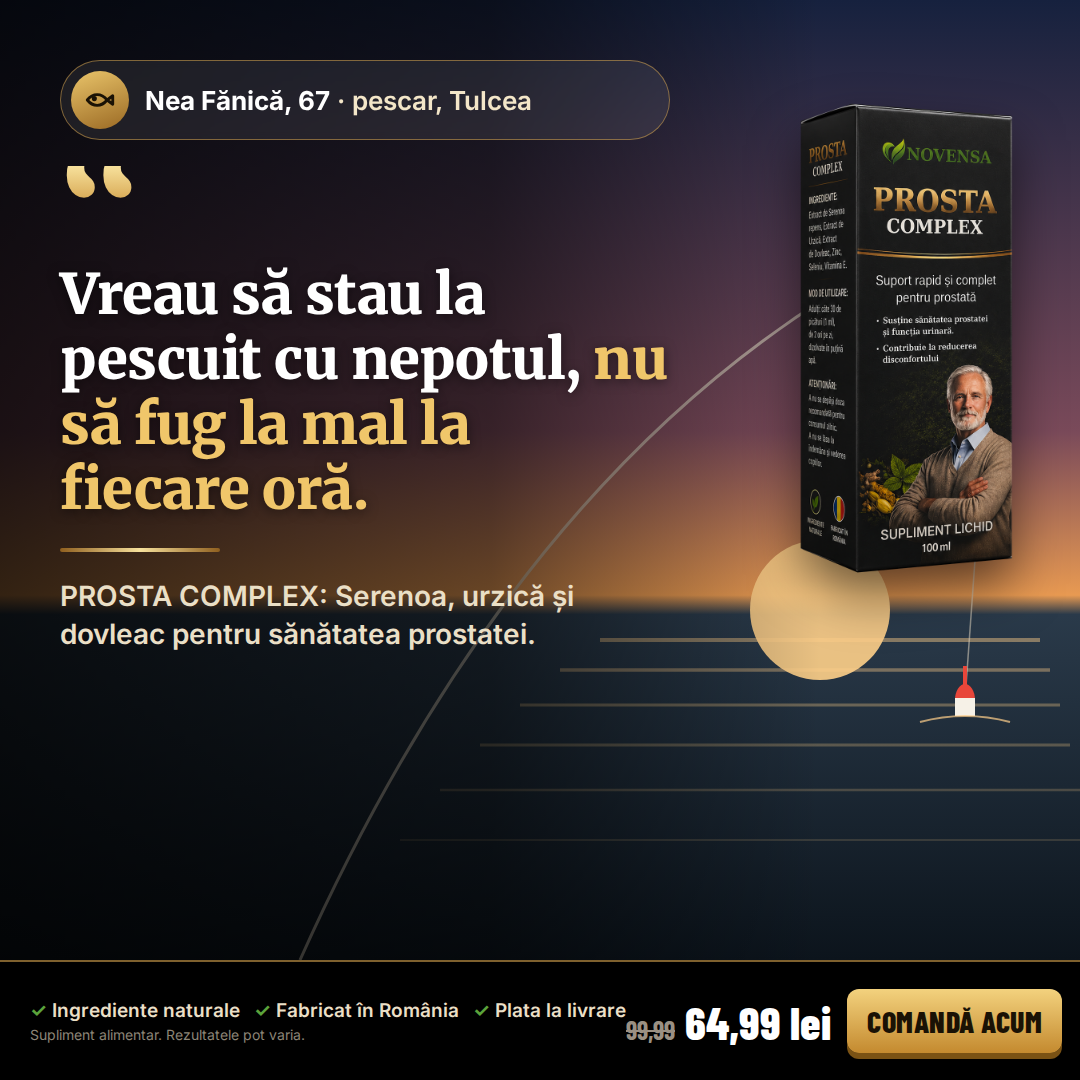
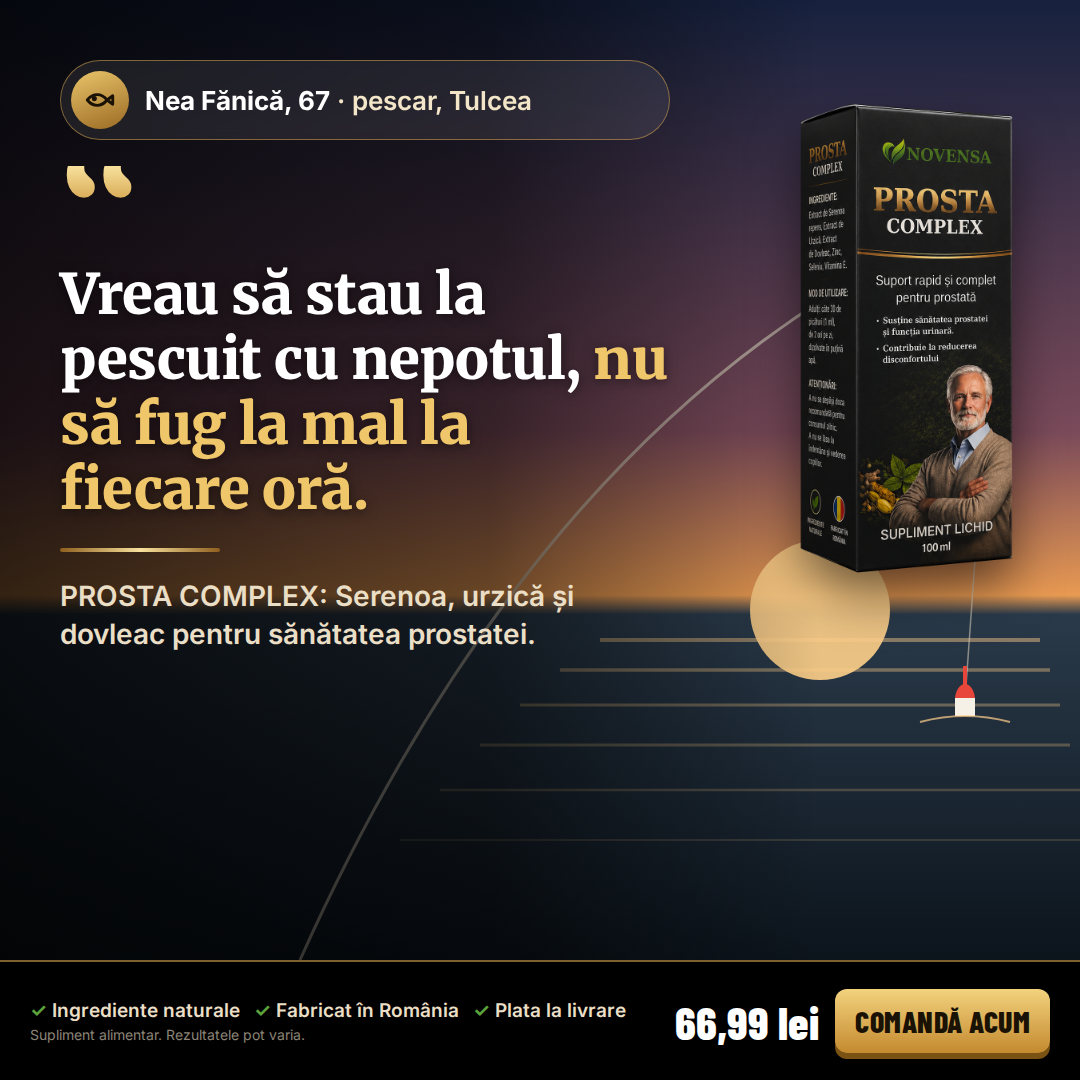
Add 10 aggressive offer ads (66,99 lei / 3 boxes 190 lei free shipping); update prices
Claude-Session: https://claude.ai/code/session_01L9cV6zALUeAnbbGBkdurjz

Changed region(s): [[0.5806, 0.9167, 1.0, 0.9778]]

diff --git a/brand/premium/ads.js b/brand/premium/ads.js
@@ -186,18 +186,139 @@ ads.push({ id: 'P11-0317-0730', html: page(`body{background:linear-gradient(90de
   <div class="abs" style="left:600px;top:940px;font:400 16px Inter;color:${C.forest};width:420px">*Experiențe raportate de clienți. Rezultatele pot varia.</div>
   ${foot(C.forest, '#fff')}`) });
 
-// 12. Offer
-ads.push({ id: 'P12-oferta', html: page(`body{background:${C.forest};color:#fff}
-  .price{position:absolute;left:56px;top:470px}
-  .old{font:800 54px Archivo;color:rgba(255,255,255,.55);text-decoration:line-through}
-  .now{font:900 170px Archivo;letter-spacing:-6px;line-height:1;color:#fff}
-  .now small{font-size:60px;letter-spacing:0}
-  .cta{position:absolute;left:56px;top:790px;background:${C.saffron};color:${C.forest};font:900 38px Archivo;padding:24px 44px;border-radius:999px;text-transform:uppercase}`,
-  `${logo(56, 56, 46, 'filter:brightness(0) invert(1)')}
-  <div class="abs h" style="left:56px;top:150px;width:620px;font-size:88px">Doar azi: <span class="it" style="color:${C.saffron}">-35%</span> la PROSTA COMPLEX</div>
-  <div class="price"><div class="old">99,99 lei</div><div class="now">64,99<small> lei</small></div></div>
-  <div class="cta">Comandă acum →</div>
-  <div class="burst" style="width:230px;height:230px;left:810px;top:60px;background:${C.saffron};font:900 64px/0.9 Archivo;color:${C.forest}">-35%</div>
-  ${prod(720, 640, 230, 4)}${disc('Supliment alimentar.', '#fff')}${foot(C.saffron, C.forest)}`) });
+
+// ================================================================ AGGRESSIVE / OFFER SET
+// 1 cutie = 66,99 lei · Cura completă = 3 cutii = 190 lei cu transport GRATUIT (3 x 66,99 = 200,97 lei)
+const RED = '#D7262E', YEL = '#FFD23F', BLK = '#0E0E0E';
+const stack3 = (h, x, y) => `<img class="prod" src="${PROD}" style="height:${h * .9}px;left:${x}px;top:${y + h * .1}px;transform:rotate(-9deg)">
+  <img class="prod" src="${PROD}" style="height:${h * .9}px;left:${x + h * .42}px;top:${y + h * .1}px;transform:rotate(9deg)">
+  <img class="prod" src="${PROD}" style="height:${h}px;left:${x + h * .2}px;top:${y}px">`;
+const AGG = `
+  .tape{position:absolute;left:-40px;right:-40px;height:64px;display:flex;align-items:center;gap:40px;white-space:nowrap;font:900 30px Archivo;letter-spacing:2px;text-transform:uppercase;overflow:hidden}
+  .big{font-family:Archivo;font-weight:900;letter-spacing:-3px;line-height:.92;text-transform:uppercase}
+  .btn{position:absolute;padding:24px 44px;border-radius:999px;font:900 36px Archivo;text-transform:uppercase;letter-spacing:.5px;box-shadow:0 8px 0 rgba(0,0,0,.35)}
+  .strike{position:relative;display:inline-block}.strike:after{content:"";position:absolute;left:-4px;right:-4px;top:52%;height:6px;background:${RED};transform:rotate(-8deg)}
+`;
+const tape = (top, bg, fg, txt) => `<div class="tape" style="top:${top}px;background:${bg};color:${fg}">${Array(6).fill(`<span>${txt}</span><span>★</span>`).join('')}</div>`;
+
+// A01 – bundle hero (red)
+ads.push({ id: 'A01-cura-completa-190', html: page(`body{background:${RED};color:#fff}${AGG}`,
+  `${tape(0, YEL, BLK, 'Transport gratuit la cura completă')}
+  ${logo(56, 100, 44, 'filter:brightness(0) invert(1)')}
+  <div class="abs big" style="left:56px;top:180px;font-size:88px">Cura<br>completă</div>
+  <div class="abs" style="left:60px;top:400px;font:800 34px Archivo">3 cutii PROSTA COMPLEX</div>
+  <div class="abs" style="left:56px;top:470px;font:900 200px/1 Archivo;letter-spacing:-8px">190<span style="font-size:70px;letter-spacing:0"> lei</span></div>
+  <div class="abs" style="left:60px;top:690px;font:700 34px Inter">în loc de <span class="strike">200,97 lei</span></div>
+  <div class="btn" style="left:56px;top:790px;background:${YEL};color:${BLK}">Comandă acum →</div>
+  ${stack3(540, 590, 330)}
+  <div class="burst" style="width:260px;height:260px;left:790px;top:90px;background:${YEL};color:${BLK};font:900 30px/0.95 Archivo">TRANSPORT<br>GRATUIT</div>
+  ${foot(BLK, '#fff')}`) });
+
+// A02 – 1 box vs 3 boxes
+ads.push({ id: 'A02-1-vs-3-cutii', html: page(`body{background:${C.cream}}${AGG}
+  .card{position:absolute;top:250px;height:640px;border-radius:36px;padding:36px;text-align:center}
+  .card .t{font:900 34px Archivo;text-transform:uppercase;letter-spacing:1px}
+  .card .p{font:900 92px/1 Archivo;letter-spacing:-4px;margin-top:14px}
+  .card .p small{font-size:40px;letter-spacing:0}
+  .card .s{font:700 26px Inter;margin-top:10px}`,
+  `${logo(56, 56)}
+  <div class="abs big" style="left:56px;top:130px;font-size:78px;color:${BLK}">Alege-ți <span style="color:${RED}">oferta</span></div>
+  <div class="card" style="left:56px;width:400px;background:#fff;border:3px solid #ddd">
+    <div class="t" style="color:#777">1 cutie</div>
+    <img src="${PROD}" style="height:300px;margin:26px 0 6px;filter:drop-shadow(0 18px 18px rgba(0,0,0,.3))">
+    <div class="p" style="color:${BLK}">66,99<small> lei</small></div><div class="s" style="color:#777">+ transport</div></div>
+  <div class="card" style="left:480px;width:544px;background:${C.forest};color:#fff;box-shadow:0 0 0 8px ${YEL}">
+    <div class="t" style="color:${YEL}">3 cutii · cura completă</div>
+    <div style="position:relative;height:330px">${'<img src="' + PROD + '" style="position:absolute;height:280px;top:40px;left:90px;transform:rotate(-8deg);filter:drop-shadow(0 14px 14px rgba(0,0,0,.4))"><img src="' + PROD + '" style="position:absolute;height:280px;top:40px;left:250px;transform:rotate(8deg);filter:drop-shadow(0 14px 14px rgba(0,0,0,.4))"><img src="' + PROD + '" style="position:absolute;height:310px;top:16px;left:170px;filter:drop-shadow(0 18px 18px rgba(0,0,0,.45))">'}</div>
+    <div class="p">190<small> lei</small></div><div class="s" style="color:${YEL}">TRANSPORT GRATUIT ✓</div></div>
+  <div class="abs" style="left:650px;top:212px;background:${RED};color:#fff;font:900 26px Archivo;padding:12px 24px;border-radius:999px;letter-spacing:1px">CEA MAI BUNĂ OFERTĂ</div>
+  ${foot(BLK, '#fff')}`) });
+
+// A03 – aggressive statement + bundle (black/yellow)
+ads.push({ id: 'A03-ajunge-cu-noptile', html: page(`body{background:${BLK};color:#fff}${AGG}`,
+  `${tape(0, YEL, BLK, 'Plata la livrare · Transport gratuit la 3 cutii')}
+  <div class="abs big" style="left:56px;top:120px;width:560px;font-size:90px">Ajunge cu nopțile <span style="color:${YEL}">pierdute</span> la baie.</div>
+  <div class="abs" style="left:60px;top:580px;width:520px;font:600 28px/1.35 Inter;color:#ddd">PROSTA COMPLEX susține funcția urinară și contribuie la reducerea disconfortului.</div>
+  <div class="abs" style="left:60px;top:720px;font:900 44px Archivo">Cura completă: <span style="color:${YEL}">190 lei</span></div>
+  <div class="btn" style="left:56px;top:800px;background:${RED};color:#fff">Vreau cura completă</div>
+  ${stack3(520, 610, 360)}${disc('Supliment alimentar. Rezultatele pot varia.', '#fff')}${foot(YEL, BLK)}`) });
+
+// A04 – myth-busting
+ads.push({ id: 'A04-nu-e-normal', html: page(`body{background:${YEL};color:${BLK}}${AGG}`,
+  `${logo(56, 56, 44)}
+  <div class="abs big" style="left:56px;top:140px;width:620px;font-size:78px">4 treziri pe noapte <span style="color:${RED}">nu sunt</span> „normale la vârsta asta”.</div>
+  <div class="abs" style="left:60px;top:590px;width:560px;font:600 28px/1.35 Inter">Susține-ți prostata și funcția urinară cu PROSTA COMPLEX: Serenoa, urzică, dovleac, zinc, seleniu și vitamina E.</div>
+  <div class="btn" style="left:56px;top:810px;background:${BLK};color:${YEL}">Cura completă · 190 lei</div>
+  ${prod(700, 700, 200, 5)}${disc()}${foot(BLK, '#fff')}`) });
+
+// A05 – free shipping typographic
+ads.push({ id: 'A05-transport-gratuit', html: page(`body{background:${C.forest};color:#fff}${AGG}`,
+  `${logo(56, 56, 44, 'filter:brightness(0) invert(1)')}
+  <div class="abs big" style="left:50px;top:140px;font-size:118px;color:${YEL}">Transport</div>
+  <div class="abs big" style="left:50px;top:250px;font-size:118px">gratuit</div>
+  <div class="abs" style="left:58px;top:380px;font:800 38px Archivo">la cura completă de 3 cutii</div>
+  <div class="abs" style="left:56px;top:540px;font:900 150px/1 Archivo;letter-spacing:-6px">190<span style="font-size:56px;letter-spacing:0"> lei</span></div>
+  <div class="abs" style="left:60px;top:710px;font:600 30px Inter;opacity:.9">Plătești la livrare, când primești coletul.</div>
+  <div class="btn" style="left:56px;top:800px;background:${YEL};color:${BLK}">Comandă acum →</div>
+  ${stack3(500, 620, 400)}${foot(RED, '#fff')}`) });
+
+// A06 – 3 reasons for the full cure
+ads.push({ id: 'A06-3-motive', html: page(`body{background:#fff}${AGG}
+  .r{position:absolute;left:56px;width:600px;display:flex;gap:26px;align-items:center}
+  .r .n{flex:none;width:96px;height:96px;border-radius:24px;background:${RED};color:#fff;display:flex;align-items:center;justify-content:center;font:900 54px Archivo}
+  .r b{display:block;font:900 38px Archivo;letter-spacing:-.5px}.r span{font:400 26px/1.3 Inter;color:#444}`,
+  `${logo(56, 56)}
+  <div class="abs big" style="left:56px;top:140px;font-size:84px">3 motive pentru <span style="color:${RED}">cura completă</span></div>
+  <div class="r" style="top:380px"><div class="n">1</div><div><b>Transport gratuit</b><span>la pachetul de 3 cutii</span></div></div>
+  <div class="r" style="top:530px"><div class="n">2</div><div><b>Plătești mai puțin</b><span>190 lei în loc de 200,97 lei</span></div></div>
+  <div class="r" style="top:680px"><div class="n">3</div><div><b>Nu rămâi fără</b><span>la jumătatea curei</span></div></div>
+  ${stack3(520, 610, 380)}${foot(BLK, '#fff')}`) });
+
+// A07 – before/after aggressive split
+ads.push({ id: 'A07-inainte-dupa-agresiv', html: page(`body{background:${BLK}}${AGG}
+  .l{position:absolute;left:0;top:0;width:540px;height:1016px;background:#2A2A2E}
+  .r{position:absolute;left:540px;top:0;width:540px;height:1016px;background:${YEL}}
+  .lab{position:absolute;top:60px;font:900 40px Archivo;letter-spacing:3px;text-transform:uppercase}
+  .w{position:absolute;top:140px;width:440px;font:900 64px/1 Archivo;text-transform:uppercase;letter-spacing:-2px}`,
+  `<div class="l"></div><div class="r"></div>
+  <div class="lab" style="left:56px;color:#9b9ba3">Înainte</div><div class="lab" style="left:596px;color:${BLK}">După</div>
+  <div class="w" style="left:56px;color:#fff">Treziri.<br>Drumuri.<br>Disconfort.</div>
+  <div class="w" style="left:596px;color:${BLK}">Nopți mai<br>liniștite.*</div>
+  ${prod(520, 290, 430)}
+  <div class="abs" style="left:596px;top:820px;font:900 40px Archivo;color:${BLK}">Cura completă<br><span style="color:${RED}">190 lei</span> · transport gratuit</div>
+  <div class="abs" style="left:56px;top:930px;font:400 16px Inter;color:#9b9ba3;width:300px">*Experiențe raportate de clienți. Supliment alimentar. Rezultatele pot varia.</div>
+  ${foot(RED, '#fff')}`) });
+
+// A08 – pay on delivery / zero risk
+ads.push({ id: 'A08-plata-la-livrare', html: page(`body{background:${C.cream}}${AGG}
+  .chk i{background:${RED};color:#fff}`,
+  `${logo(56, 56)}
+  <div class="abs big" style="left:56px;top:140px;width:580px;font-size:84px">Plătești doar când <span style="color:${RED}">ai coletul</span> în mână.</div>
+  <div class="abs" style="left:60px;top:520px;display:flex;flex-direction:column;gap:26px">
+   <div class="chk"><i>✓</i>Plata ramburs, la curier</div>
+   <div class="chk"><i>✓</i>Transport gratuit la 3 cutii</div>
+   <div class="chk"><i>✓</i>Colet discret</div></div>
+  <div class="btn" style="left:56px;top:810px;background:${BLK};color:#fff">3 cutii · 190 lei</div>
+  ${stack3(520, 620, 380)}${foot(C.forest, '#fff')}`) });
+
+// A09 – warning tape style
+ads.push({ id: 'A09-atentie-barbati', html: page(`body{background:${BLK};color:#fff}${AGG}`,
+  `${tape(70, YEL, BLK, 'Atenție · Atenție · Atenție')}
+  <div class="abs big" style="left:56px;top:190px;width:680px;font-size:96px">Nu-ți mai planifica ziua <span style="color:${YEL}">după toaletă.</span></div>
+  <div class="abs" style="left:60px;top:560px;width:540px;font:600 30px/1.35 Inter;color:#ddd">30 de picături, de 2 ori pe zi. Susține funcția urinară și sănătatea prostatei.</div>
+  <div class="abs" style="left:60px;top:720px;font:900 44px Archivo">1 cutie <span style="color:${YEL}">66,99 lei</span></div>
+  <div class="btn" style="left:56px;top:800px;background:${YEL};color:${BLK}">Comandă acum →</div>
+  ${prod(680, 690, 230, 5)}${disc('Supliment alimentar.', '#fff')}${foot(RED, '#fff')}`) });
+
+// A10 – review + bundle
+ads.push({ id: 'A10-recenzie-oferta', html: page(`body{background:${RED};color:#fff}${AGG}
+  .card{position:absolute;left:56px;top:120px;width:620px;background:#fff;color:${BLK};border-radius:32px;padding:44px}`,
+  `<div class="card"><div class="stars" style="font-size:46px">★★★★★</div>
+   <div class="it" style="font-size:44px;line-height:1.16;margin-top:16px;color:${BLK}">„Produs bun, natural, fără reacții adverse. După aproximativ o săptămână am simțit diferența.”</div>
+   <div style="margin-top:22px;font:700 24px Inter">Client verificat <span style="color:#2E7D32">✔</span> · 4,75/5</div></div>
+  <div class="abs" style="left:60px;top:640px;font:900 52px Archivo">Cura completă</div>
+  <div class="abs" style="left:56px;top:700px;font:900 130px/1 Archivo;letter-spacing:-5px">190<span style="font-size:48px;letter-spacing:0"> lei</span></div>
+  <div class="abs" style="left:60px;top:850px;background:${YEL};color:${BLK};font:900 26px/1.1 Archivo;padding:14px 20px;border-radius:14px">TRANSPORT<br>GRATUIT</div>
+  ${stack3(520, 630, 380)}${foot(BLK, '#fff')}`) });
 
 module.exports = ads;

diff --git a/brand/premium/sheet.js b/brand/premium/sheet.js
@@ -1,6 +1,6 @@
 // Contact sheet of all PNGs -> png/_overview.jpg (not an ad).
 const fs=require('fs'),path=require('path');const {chromium}=require('/opt/node-tools/node_modules/playwright');
-(async()=>{const files=fs.readdirSync(path.join(__dirname,'png')).filter(f=>/^[0-9P].*\.png$/.test(f)).sort();
+(async()=>{const files=fs.readdirSync(path.join(__dirname,'png')).filter(f=>/^[0-9PA].*\.png$/.test(f)).sort();
 const cols=+(process.argv[2]||4), sz=+(process.argv[3]||360);
 const html=`<body style="margin:0;background:#222;display:grid;grid-template-columns:repeat(${cols},${sz}px);gap:8px;padding:8px;font:14px sans-serif;color:#fff">${files.map(f=>`<div><img src="png/${f}" width="${sz}"><div>${f}</div></div>`).join('')}</body>`;
 fs.writeFileSync(path.join(__dirname,'_sheet.html'),html);const b=await chromium.launch();const p=await b.newPage({viewport:{width:cols*(sz+8)+8,height:400}});

diff --git a/brand/ads/lib.js b/brand/ads/lib.js
@@ -115,7 +115,7 @@ function footer({ price = true } = {}) {
   return `<div class="footer">
     <div class="badges"><div class="row"><span>Ingrediente naturale</span><span>Fabricat în România</span><span>Plata la livrare</span></div>
     <small>Supliment alimentar. Rezultatele pot varia.</small></div>
-    <div style="display:flex;align-items:center">${price ? `<div class="price"><span class="old">99,99</span><span class="now">64,99 lei</span></div>` : ''}<div class="cta">Comandă acum</div></div>
+    <div style="display:flex;align-items:center">${price ? `<div class="price"><span class="now">66,99 lei</span></div>` : ''}<div class="cta">Comandă acum</div></div>
   </div>`;
 }
 
